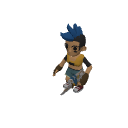
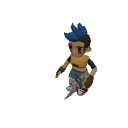
Spielordner-Modelle fuer die KI (Katalog mit Massen, Aktion modell, Gemini-Kontext), Fix Skelett-Modelle (Wolf unsichtbar/winzig im Spiel), Vorschaubilder neu
Claude-Session: https://claude.ai/code/session_019NcqBbyonHsMqUoTPw1sXs

Changed region(s): [[0.4062, 0.1562, 0.7812, 0.7812]]

diff --git a/editor/kern/kiImport.js b/editor/kern/kiImport.js
@@ -10,6 +10,7 @@ import { ZONEN_EINSTELLUNGEN, pruefeZonenEinstellungen } from '../../server/spie
 import { neueLootZone, pruefeLootZone } from '../../server/spiel/karten/lootZonen.js';
 import { einfuegeOps } from './auswahl.js';
 import { eingebautePrefabs } from './prefabs.js';
+import { spielordnerTyp } from './spielordner.js';
 
 /**
  * Import von KI-Änderungen (Phase 8). Ablauf:
@@ -47,6 +48,7 @@ const SYNONYME = {
   name: 'name', benenne: 'name', umbenennen: 'name',
   prefab: 'prefab', vorlage: 'prefab',
   bodenton: 'bodenton', bodenfarbe: 'bodenton',
+  modell: 'modell', model: 'modell', spielordner: 'modell',
 };
 /** Leerer Bereich: jede Aktion mit Ort ist darin ungültig */
 const KEIN_BEREICH = Object.freeze({ x0: 0, y0: 0, x1: -1, y1: -1 });
@@ -221,7 +223,7 @@ export function pruefeAenderungen(karte, { aktionen, meta = {}, warnungen = [] }
     };
     if (!a || typeof a !== 'object' || Array.isArray(a)) return ungueltig('keine Aktion (Objekt erwartet)');
     const art = SYNONYME[String(a.aktion ?? (a.typ ? 'setze' : '')).toLowerCase()];
-    if (!art) return ungueltig(`unbekannte Aktion „${a.aktion}“ (erlaubt: setze, entferne, aendere, kachel, linie, marker, bauwerk, raum, hoehe, typtextur, bemale, bodenton, wert, lootzone, name, prefab)`);
+    if (!art) return ungueltig(`unbekannte Aktion „${a.aktion}“ (erlaubt: setze, modell, entferne, aendere, kachel, linie, marker, bauwerk, raum, hoehe, typtextur, bemale, bodenton, wert, lootzone, name, prefab)`);
 
     if (art === 'setze') {
       if (typeof a.typ !== 'string') return ungueltig('Feld "typ" fehlt');
@@ -241,6 +243,25 @@ export function pruefeAenderungen(karte, { aktionen, meta = {}, warnungen = [] }
       if (!pr.ok) return ungueltig(`${o.typ} bei ${o.x}|${o.y}: ${pr.grund}`, Math.floor(o.x), Math.floor(o.y));
       const id = sim.naechsteId;
       return fertig('neu', `＋ ${objektInfo(o.typ, karte).name} (${o.typ}) bei ${o.x}|${o.y}${fremd.length ? ` – ignoriert: ${fremd.join(', ')}` : ''}`, [{ s: 'objekte', k: id, neu: o }], Math.floor(o.x), Math.floor(o.y), { rechteck: o });
+    }
+
+    if (art === 'modell') {
+      // Spielordner-Modell (kern/spielordner.js): legt bei Bedarf den Typ `sf_<name>_<dm>` mit `glbDatei` an und setzt das Objekt
+      const name = a.modell ?? a.datei ?? a.name;
+      if (typeof name !== 'string') return ungueltig('Feld "modell" (Dateiname ohne .glb) fehlt');
+      if (!zahl(a.x) || !zahl(a.y)) return ungueltig(`x/y fehlen für Modell ${name}`);
+      const sf = spielordnerTyp(name, zahl(a.hoehe) ? a.hoehe : null);
+      if (!sf) return ungueltig(`unbekanntes Modell „${name}“ (Liste: spielordnerModelle im Kontext)`, Math.floor(a.x), Math.floor(a.y));
+      const o = { typ: sf.typId, x: r3(a.x), y: r3(a.y), b: sf.b, h: sf.h, blockiert: true };
+      // Größe nur über "hoehe" (gleichmäßige Skalierung): b/h/typ aus der Aktion zählen nicht
+      const { aktion, modell, datei, name: _n, hoehe: _h, b: _b, h: _hh, typ: _t, ...rest } = a;
+      const fremd = uebernimmFelder(o, rest);
+      if (!objektDrin(o)) return ungueltig(`${name} bei ${o.x}|${o.y} liegt außerhalb des Bereichs (${bereichText(b)})`, Math.floor(o.x), Math.floor(o.y));
+      const pr = pruefeObjekt(sim, o);
+      if (!pr.ok) return ungueltig(`${name} bei ${o.x}|${o.y}: ${pr.grund}`, Math.floor(o.x), Math.floor(o.y));
+      const ops = sim.s('typen').has(sf.typId) ? [] : [{ s: 'typen', k: sf.typId, neu: sf.typ }];
+      ops.push({ s: 'objekte', k: sim.naechsteId, neu: o });
+      return fertig('neu', `＋ Modell ${sf.typ.name} (${sf.hoehe} m hoch, ${sf.b}×${sf.h}) bei ${o.x}|${o.y}${fremd.length ? ` – ignoriert: ${fremd.join(', ')}` : ''}`, ops, Math.floor(o.x), Math.floor(o.y), { rechteck: o });
     }
 
     if (art === 'entferne') {

diff --git a/tests/spielordner.test.js b/tests/spielordner.test.js
@@ -1,0 +1,64 @@
+/**
+ * Spielordner-Modelle für die KI (editor/kern/spielordner.js): Katalog, KI-Aktion `modell`, Gemini-Kontext, Spiel-Lader.
+ */
+import { test, before } from 'node:test';
+import assert from 'node:assert/strict';
+import fs from 'node:fs';
+import { KARTEN, verarbeiteKarte } from '../server/spiel/karten/kartenLader.js';
+import { ausDefinition, nachDefinition } from '../editor/kern/format.js';
+import { leseKiAntwort, pruefeAenderungen } from '../editor/kern/kiImport.js';
+import { baueKontext } from '../editor/kern/gemini.js';
+import { setzeSpielordner, spielordnerTyp, spielordnerKontext, spielordnerGroesse } from '../editor/kern/spielordner.js';
+
+const index = JSON.parse(fs.readFileSync(new URL('../client/assets/eigene/index.json', import.meta.url), 'utf8'));
+const laden = () => ausDefinition(KARTEN.stadtrand.definition ?? KARTEN.stadtrand).karte;
+before(() => setzeSpielordner(index));
+
+test('index.json: alle Modelle haben Maße, Vorschaubild und gültigen Dateinamen', () => {
+  assert.ok(index.length >= 400);
+  for (const e of index) {
+    assert.ok(e.masse?.b > 0 && e.masse.h > 0 && e.masse.hoehe > 0, `Maße fehlen: ${e.datei}`);
+    assert.match(e.datei, /^[a-z0-9_-]+\.glb$/, e.datei);
+    assert.ok(fs.existsSync(new URL(`../client/assets/eigene/vorschau/${e.datei.replace(/\.glb$/, '.png')}`, import.meta.url)), `Vorschau fehlt: ${e.datei}`);
+  }
+  assert.equal(spielordnerGroesse(), index.length);
+});
+
+test('spielordnerTyp: Zielhöhe skaliert gleichmäßig, Typ-ID mit Höhe', () => {
+  const natuerlich = spielordnerTyp('wolf');
+  const klein = spielordnerTyp('wolf', 0.9);
+  assert.equal(klein.typId, 'sf_wolf_9');
+  assert.equal(klein.typ.glbDatei, 'assets/eigene/wolf.glb');
+  assert.ok(klein.b < natuerlich.b && klein.h < natuerlich.h);
+  assert.ok(Math.abs(klein.h / klein.b - natuerlich.h / natuerlich.b) < 0.05, 'Proportionen bleiben');
+  assert.equal(spielordnerTyp('gibts-nicht'), null);
+});
+
+test('KI-Aktion modell: legt Typ + Objekt an, Spiel-Lader nimmt es an; unbekannt/Kollision = ungültig', () => {
+  const karte = laden();
+  const bereich = { x0: 20, x1: 40, y0: 20, y1: 40 };
+  const antwort = leseKiAntwort(JSON.stringify([
+    { aktion: 'modell', modell: 'wolf', x: 25, y: 25, hoehe: 0.9, drehung: 90 },
+    { aktion: 'modell', modell: 'wolf.glb', x: 30, y: 25, hoehe: 0.9 },
+    { aktion: 'modell', modell: 'gibts-nicht', x: 25, y: 30 },
+  ]));
+  const erg = pruefeAenderungen(karte, antwort, { bereich });
+  assert.equal(erg.eintraege.filter((e) => e.art === 'neu').length, 2, JSON.stringify(erg.eintraege.map((e) => e.text)));
+  assert.equal(erg.eintraege.filter((e) => e.art === 'ungueltig').length, 1);
+  const typOps = erg.ops.filter((o) => o.s === 'typen');
+  assert.equal(typOps.length, 1, 'gleicher Typ nur einmal');
+  karte.anwenden(erg.ops);
+  assert.ok(karte.s('typen').has('sf_wolf_9'));
+  const objekte = [...karte.s('objekte').values()].filter((o) => o.typ === 'sf_wolf_9');
+  assert.equal(objekte.length, 2);
+  assert.equal(objekte[0].drehung, 90);
+  const geladen = verarbeiteKarte(nachDefinition(karte));
+  assert.equal(geladen.daten.typen.sf_wolf_9.glbDatei, 'assets/eigene/wolf.glb');
+});
+
+test('Gemini-Kontext nennt die Spielordner-Modelle mit Maßen', () => {
+  const k = baueKontext(laden(), { rechteck: { x: 5, y: 5, b: 10, h: 8 } });
+  assert.match(k.text, /spielordnerModelle/);
+  assert.match(k.text, /wolf 1\.1x5\.3x2\.7/);
+  assert.ok(spielordnerKontext().length < 20000, 'bleibt kompakt');
+});

diff --git a/editor/kern/spielordner.js b/editor/kern/spielordner.js
@@ -1,0 +1,64 @@
+/**
+ * Spielordner-Katalog (client/assets/eigene/index.json): die mitgelieferten .glb-Modelle mit natürlichen Maßen.
+ * Umgebungsfrei – die UI lädt den Katalog einmal (`ladeSpielordner`) und trägt ihn per `setzeSpielordner` ein.
+ * Genutzt von der KI-Aktion `modell` (kern/kiImport.js) und vom Gemini-Kontext (kern/gemini.js).
+ *
+ * Ein Modell wird als Objekttyp mit `glbDatei` (Pfad unter client/) angelegt – ohne Bibliothek/Upload. Die Zielgröße
+ * (`hoehe` in Metern = Kacheln) skaliert das Modell gleichmäßig: b/h des Fußabdrucks folgen den natürlichen Proportionen.
+ * Typ-ID: `sf_<name>_<hoehe in dm>` (z. B. `sf_wolf_9`), je Höhe ein eigener Typ.
+ */
+export const SPIELORDNER_PFAD = 'assets/eigene';
+export const HOEHE_MIN = 0.05;
+export const HOEHE_MAX = 20;
+
+let katalog = new Map(); // stem → { stem, name, b, t, hoehe }
+
+/** Dateiname ohne .glb, klein */
+export const stemVon = (s) => String(s ?? '').trim().toLowerCase().replace(/^.*\//, '').replace(/\.glb$/, '');
+
+/** index.json-Liste [{ datei, name, masse:{b,h,hoehe} }] eintragen (Einträge ohne Maße werden übersprungen) */
+export function setzeSpielordner(liste) {
+  katalog = new Map();
+  for (const e of Array.isArray(liste) ? liste : []) {
+    const m = e?.masse;
+    if (!m || !(m.b > 0) || !(m.h > 0) || !(m.hoehe > 0) || typeof e.datei !== 'string') continue;
+    const stem = stemVon(e.datei);
+    if (/^[a-z0-9_-]{1,100}$/.test(stem)) katalog.set(stem, { stem, name: e.name ?? stem, b: m.b, t: m.h, hoehe: m.hoehe });
+  }
+}
+
+export const spielordnerModell = (name) => katalog.get(stemVon(name)) ?? null;
+export const spielordnerGroesse = () => katalog.size;
+
+/** Lädt index.json (basis = URL-Ordner von client/assets/eigene/) und trägt ihn ein. @returns Anzahl Modelle mit Maßen */
+export async function ladeSpielordner(basis, holen = fetch) {
+  const antwort = await holen(new URL('index.json', basis));
+  if (!antwort.ok) throw new Error(`index.json nicht gefunden (${antwort.status})`);
+  setzeSpielordner(await antwort.json());
+  return katalog.size;
+}
+
+const r1 = (v) => Math.round(v * 10) / 10;
+const r3 = (v) => Math.round(v * 1000) / 1000;
+
+/**
+ * Objekttyp für ein Modell in Zielhöhe. @returns { typId, typ, b, h, hoehe } | null (unbekanntes Modell)
+ * b/h = Fußabdruck in Kacheln (natürliche Proportionen × Faktor), mindestens 0,1.
+ */
+export function spielordnerTyp(name, hoehe = null) {
+  const m = spielordnerModell(name);
+  if (!m) return null;
+  const ziel = Math.min(HOEHE_MAX, Math.max(HOEHE_MIN, Number.isFinite(hoehe) && hoehe > 0 ? hoehe : m.hoehe));
+  const f = ziel / m.hoehe;
+  const b = Math.max(0.1, r3(m.b * f));
+  const h = Math.max(0.1, r3(m.t * f));
+  const typId = `sf_${m.stem.replace(/[^a-z0-9]+/g, '_').slice(0, 28)}_${Math.round(ziel * 10)}`;
+  const typ = { name: m.name, kategorie: 'Spielordner', b, h, hoehe3d: r3(ziel), blockiert: true, farbe: '#c080ff', glbDatei: `${SPIELORDNER_PFAD}/${m.stem}.glb` };
+  return { typId, typ, b, h, hoehe: r3(ziel) };
+}
+
+/** Kompakte Liste für KIs: „wolf 1.1x5.3x2.7“ = Breite × Tiefe × Höhe in Metern im Originalmaß (Aktion `modell` skaliert) */
+export function spielordnerKontext() {
+  if (!katalog.size) return '';
+  return [...katalog.values()].map((m) => `${m.stem} ${r1(m.b)}x${r1(m.t)}x${r1(m.hoehe)}`).join(', ');
+}

diff --git a/editor/ui/modellImport.js b/editor/ui/modellImport.js
@@ -1,5 +1,5 @@
 import * as THREE from 'three';
-import { GLTFLoader, OBJLoader, FBXLoader, GLTFExporter } from '../../client/vendor/three/addons.js';
+import { GLTFLoader, OBJLoader, FBXLoader, GLTFExporter, SkeletonUtils } from '../../client/vendor/three/addons.js';
 import { istGlb, glbInfo, gltfZuGlb, modellFormat, masseAusGroesse, MODELL_MAX_MB } from '../kern/bibliothek.js';
 
 /**
@@ -12,6 +12,19 @@ import { istGlb, glbInfo, gltfZuGlb, modellFormat, masseAusGroesse, MODELL_MAX_M
  */
 export const DATEI_ANNAHME = '.glb,.gltf,.obj,.fbx,model/gltf-binary,model/gltf+json';
 const VORSCHAU_PX = 96;
+
+/** Größe eines geladenen Modells (Ruhepose). Skelett-Modelle: Knochen-Matrizen erst berechnen, sonst falsche (100× kleine) Maße. */
+export function messeModell(szene) {
+  szene.updateMatrixWorld(true);
+  let skelett = false;
+  szene.traverse((t) => {
+    if (!t.isSkinnedMesh) return;
+    skelett = true;
+    t.boundingBox = null;
+    t.skeleton.update();
+  });
+  return new THREE.Box3().setFromObject(szene, skelett).getSize(new THREE.Vector3());
+}
 
 export async function leseModellDatei(datei) {
   const format = modellFormat(datei.name);
@@ -47,7 +60,7 @@ export async function leseModellDatei(datei) {
   } catch (e) {
     throw new Error(`Modell lässt sich nicht laden: ${e.message ?? e}`);
   }
-  const groesse = new THREE.Box3().setFromObject(szene).getSize(new THREE.Vector3());
+  const groesse = messeModell(szene);
   if (!(groesse.x > 0 || groesse.y > 0 || groesse.z > 0)) throw new Error('Modell hat keine sichtbare Größe');
   const masse = masseAusGroesse(groesse);
   if (Math.max(groesse.x, groesse.y, groesse.z) > 60) warnungen.push(`Sehr groß (${groesse.x.toFixed(0)} × ${groesse.z.toFixed(0)} m) – vielleicht in cm exportiert? Maße im Dialog anpassen`);
@@ -68,11 +81,15 @@ export function vorschauBild(szene, px = VORSCHAU_PX) {
     const sonne = new THREE.DirectionalLight(0xffffff, 1.6);
     sonne.position.set(3, 5, 4);
     welt.add(sonne);
-    const modell = szene.clone(true);
+    let skelett = false;
+    szene.traverse((t) => (skelett ||= !!t.isSkinnedMesh));
+    const modell = skelett ? SkeletonUtils.clone(szene) : szene.clone(true);
     welt.add(modell);
-    const box = new THREE.Box3().setFromObject(modell);
+    const groesse = messeModell(modell);
+    const box = new THREE.Box3().setFromObject(modell, skelett);
     const mitte = box.getCenter(new THREE.Vector3());
-    const radius = box.getSize(new THREE.Vector3()).length() / 2 || 1;
+    const radius = groesse.length() / 2 || 1;
+    modell.traverse((t) => t.isSkinnedMesh && (t.frustumCulled = false));
     const kamera = new THREE.PerspectiveCamera(35, 1, radius / 100, radius * 100);
     const abstand = radius / Math.sin((35 / 2) * (Math.PI / 180)) * 1.05;
     kamera.position.copy(mitte).add(new THREE.Vector3(0.75, 0.6, 1).normalize().multiplyScalar(abstand));

diff --git a/editor/kern/gemini.js b/editor/kern/gemini.js
@@ -2,6 +2,7 @@ import { ausschnitt, ausschnittText, bereichText } from './ausschnitt.js';
 import { katalog, objektInfo } from './katalog.js';
 import { leseKiAntwort } from './kiImport.js';
 import { kopie } from './karte.js';
+import { spielordnerKontext } from './spielordner.js';
 import { ZONEN_EINSTELLUNGEN } from '../../server/spiel/karten/zonenEinstellungen.js';
 import { LOOT_TABELLEN } from '../../server/spiel/konfiguration/lootTabellen.js';
 
@@ -92,7 +93,7 @@ export const SYSTEM_TEXT = [
   'Du hilfst beim Gestalten von Zonen: Layout, Dekoration, Spawns/Loot-Verteilung, Farben und Texturen. Antworte auf Deutsch, kurz und konkret, gern mit einem Augenzwinkern.',
   'Du siehst nur den mitgelieferten Kontext (Zonen-Überblick, markierter Bereich, ausgewählte Objekte). Rate nicht, was du nicht siehst – frag nach oder bitte darum, einen Bereich zu markieren.',
   'Wenn der Nutzer etwas geändert haben will, erkläre kurz, was du tust, und hänge GENAU EINEN ```json-Block mit der Aktionsliste an (erste Aktion: die "bereich"-Aktion aus dem Kontext, falls dort eine steht – sonst keine erfinden).',
-  'Nutze nur Objekttypen aus "objektTypen", nur Kachelzeichen aus der Legende, nur Koordinaten INNERHALB des Bereichs. Ohne Bereich im Kontext nur Aktionen ohne Ort (wert, raum, name, typtextur, bodenton – Format siehe Kontext), sonst Tipps.',
+  'Nutze nur Objekttypen aus "objektTypen" (oder 3D-Modelle aus "spielordnerModelle" per Aktion "modell" – wähle eine sinnvolle Zielhöhe "hoehe", die Originalmaße sind oft viel zu groß/klein), nur Kachelzeichen aus der Legende, nur Koordinaten INNERHALB des Bereichs. Ohne Bereich im Kontext nur Aktionen ohne Ort (wert, raum, name, typtextur, bodenton – Format siehe Kontext), sonst Tipps.',
   'Bei reinen Fragen oder Ideen: nur Text, kein JSON. Die Änderungen werden vom Nutzer in einer Vorschau geprüft – du musst nichts "bestätigen".',
 ].join('\n');
 
@@ -142,6 +143,8 @@ export function zonenStatistik(karte, { prefabs = [] } = {}) {
     `Typ-Texturen gesetzt: ${[...karte.s('texturen')].map(([t, v]) => `${t}=${JSON.stringify(v)}`).join(', ') || 'keine'}.`,
     `objektTypen: ${typListe(karte)}`,
   ];
+  const modelle = spielordnerKontext();
+  if (modelle) zeilen.push(`spielordnerModelle (Aktion "modell", Originalmaß Breite x Tiefe x Höhe in m – du legst die Zielhöhe "hoehe" fest, 1 Kachel = 1 m, Mensch ≈ 1.8): ${modelle}`);
   if (prefabs.length) zeilen.push(`prefabs: ${prefabs.map((p) => `${p.name} ${p.vorlage.b}×${p.vorlage.h}`).join(', ')}`);
   return zeilen.join('\n');
 }

diff --git a/client/darstellung/eigeneModelle.js b/client/darstellung/eigeneModelle.js
@@ -61,7 +61,17 @@ export function eigenesModellInhalt(szene, { b, h, hoehe, einheit = 1, farbe = n
     t.material = Array.isArray(t.material) ? t.material.map(kopie) : kopie(t.material);
     if (id !== null) t.userData = { s: 'objekte', k: id };
   });
-  const box = new THREE.Box3().setFromObject(modell);
+  // Skelett-Modelle: erst alle Knochen-Matrizen berechnen und die (gecachte) Skinning-Box verwerfen, sonst wird in Ruhepose
+  // mit veralteten Knochen gemessen (Modell erscheint 100× zu klein/unsichtbar). Skinning-Meshes nie wegschneiden (Box stimmt nicht).
+  modell.updateMatrixWorld(true);
+  modell.traverse((t) => {
+    if (!t.isSkinnedMesh) return;
+    t.boundingBox = null;
+    t.boundingSphere = null;
+    t.skeleton.update();
+    t.frustumCulled = false;
+  });
+  const box = new THREE.Box3().setFromObject(modell, skelett);
   const groesse = box.getSize(new THREE.Vector3());
   const mitte = box.getCenter(new THREE.Vector3());
   const s = Math.min((b * 0.96 * einheit) / (groesse.x || 1), (h * 0.96 * einheit) / (groesse.z || 1), (hoehe * einheit) / (groesse.y || 1));

diff --git a/editor/kern/ausschnitt.js b/editor/kern/ausschnitt.js
@@ -20,6 +20,7 @@ export const AUSSCHNITT_VERSION = 1;
 export const AKTIONEN_ANLEITUNG = [
   'Antworte mit einer JSON-Liste von Aktionen (nur Koordinaten INNERHALB des Bereichs sind erlaubt). Beispiele:',
   '{"aktion":"setze","typ":"baum","x":23,"y":14}  – Objekt setzen (typ aus objektTypen; Größe/Kollision kommen aus dem Katalog, b/h/drehung/blockiert optional)',
+  '{"aktion":"modell","modell":"wolf","x":23,"y":14,"hoehe":0.9,"drehung":90}  – 3D-Modell aus dem Spielordner (Liste spielordnerModelle im Kontext; "hoehe" = Zielhöhe in m, Fußabdruck skaliert mit; Mensch ≈ 1.8 m, Hund ≈ 0.6, Baum 4–8; "blockiert":false für Deko)',
   '{"aktion":"entferne","id":17}  oder  {"aktion":"entferne","typ":"stein","x":30,"y":12}  – Objekt entfernen',
   '{"aktion":"aendere","id":17,"x":24,"y":15,"drehung":90}  – Objekt verschieben/drehen/Eigenschaften ändern',
   '{"aktion":"kachel","x":20,"y":10,"zeichen":"="}  oder mit "b"/"h" für ein Rechteck – Boden setzen (Zeichen siehe legende)',

diff --git a/editor/ui/geminiUi.js b/editor/ui/geminiUi.js
@@ -1,3 +1,4 @@
+import { ladeSpielordner } from '../kern/spielordner.js';
 import { frageGemini, ohneJsonBloecke, markierungTeile, aussenRechteck, STANDARD_MODELL, BEKANNTE_MODELLE } from '../kern/gemini.js';
 import { kiAnfrage, kiErgebnis } from '../kern/kiPipeline.js';
 import { bereichText } from '../kern/ausschnitt.js';
@@ -24,6 +25,8 @@ const VORSCHLAEGE = [
 ];
 
 export function geminiUi({ zustand, panel, aktionen, pruefeText }) {
+  // Spielordner-Katalog (Modelle + Maße) für Kontext und KI-Aktion „modell“; ohne Katalog (kein Spielserver) läuft alles wie bisher
+  ladeSpielordner(new URL('../client/assets/eigene/', location.href)).catch(() => {});
   const auswahlBereich = () => aktionen.auswahlBereich();
   const speicher = ladeEinstellungen();
   const verlauf = []; // { rolle, text }

diff --git a/project_manifest.md b/project_manifest.md
@@ -893,3 +893,4 @@ Weiter: `statischerServer.js` liefert `editor/` aus,
 | 0.17.0-dev | 2026-10-22 | **Runde 18, Phase 1 (Werte & UI):** Zoom enger (0,32–1,12), Gangarten Gehen/Joggen/Rennen + Zombies 120 px/s, Taschenlampe kürzer/breiter mit weichem Kegel (Shader), Laternen kleiner, Mengen-Zahlen weiß mit Umrandung, „Ziel erfasst“ und Tasten-Hilfe unten rechts entfernt, Minikarte ohne Zombies/Tiere, Nacht etwas heller + Figur leuchtet stärker, **Fix: nachts bei Regen/Nebel verschluckte heller Nebel alles** (Regengrau nachts dunkel, Nebel erst hinter der Figur, NaN-Schutz Kamera), Wand-Durchsicht nur noch nahe Südwände je Kachel (`verdecktFigur`), Chat-Sprechblasen über dem Kopf. Fortschritt: `FORTSCHRITT.md`. |
 | 0.17.0-dev | 2026-10-22 | **Runde 18, Phase 2/3/6/7:** Neue Figuren-Clips (gehen, hacke, spitzhacke, abbauen, nahkampf beidhändig, sitzen; Gehtempo je Figur), Angeln nur mit Angel in der Hand + doppelte Wartezeit, Auto bremst an Laternen, neue Sounds (Vögel, Donner, Hunger, Durst, Keuchen, Schaden m/w, Automatikgewehr), weicher Rasenrand. Editor: Boden-Pinsel, Zonen ohne Überlappung/verschiebbar/bis 10000², 3D-Mappen, Knochen in der Werkstatt, Strg+C, Messen-Fix, Testlauf ohne fremde Spawn-Warnung; KI ohne Größenlimit, Markieren aus dem Chat auch außerhalb, Loot-Balance-Vorschläge werden angenommen. Neu: `editor/kern/knochen.js`, `editor/kern/weltLayout.js`, `editor/ui/werkstattKnochen.js`, `tests/editorRunde18.test.js`. |
 | 0.17.0-dev | 2026-10-22 | **Runde 18, Phase 4 (Performance & nahtlose Zonen):** Nahtloser Übergang an der ganzen gemeinsamen Kante (Ankunft an der nächsten freien Stelle); Nachbarzone läuft in Grenznähe mit, ihre Zombies/Spieler/Autos/Tiere sind von drüben sichtbar (`ZUSTAND.fremde`); Zonenwechsel ohne Ruckler (Minikarte in Portionen + Cache je Zone, Figuren werden übernommen statt neu gebaut: 2×~1 s → 58 ms); Render-Culling in 64er-Blöcken + Sichtweite (Neu: `client/darstellung/bloecke.js`, `tests/bloecke.test.js`). |
+| 0.17.0-dev | 2026-10-22 | **Spielordner-Modelle im Editor + für die KI:** Spielordner-Dialog mit Vorschaubildern (`client/assets/eigene/vorschau/`, `npm run eigene:vorschau`), Maße je Modell in `index.json`; neue KI-Aktion `modell` + Katalog im Gemini-Kontext (`editor/kern/spielordner.js`, Typ mit `glbDatei`); Fix: Skelett-Modelle (Wolf …) waren im Spiel unsichtbar/winzig (Messung vor Knochen-Update, `eigeneModelle.js`/`modellImport.js`); Zonen-Layout: alle Nachbarzonen sichtbar + Ansicht nach „Neue Zone“ zeigt alte und neue. Test `tests/spielordner.test.js`. |

diff --git a/KI_INDEX.md b/KI_INDEX.md
@@ -268,3 +268,5 @@ Zonen-Grundlage steht (2 Zonen, Waldweg groß mit See). Nächstes sinnvoll: Basi
 - Editor: Reiter „📦 Modelle“ → Knopf „📁 Spielordner“ (`editor/ui/modelleUi.js spielordner()`): Suchliste, Klick = fetch → `leseModellDatei` → `bibliothek.fuegeHinzu` (Ordner „Spielordner“, `quelle`=URL). Bibliothek bleibt IndexedDB – nicht automatisch alle geladen. Credits für diese Modelle fehlen noch (Credits.txt enthält sie nicht).
 - Vorschaubilder: `client/assets/eigene/vorschau/<name>.png` (128 px, ← `npm run eigene:vorschau`, `werkzeuge/assets/eigene_vorschau.mjs`, headless Chromium + `vorschauBild`; nur fehlende, `-- --alle` neu). Spielordner-Dialog zeigt sie als Kachel-Raster. Nach neuem Modell: `eigene:index` + `eigene:vorschau`.
 - Zonen-Layout: `zeichner.nachbarn` (ui/zonenUi.js) = ALLE anderen Zonen als blasses Kachelbild (vorher nur Kante-an-Kante). `zeichner.einpassenMit(ids)`: nach „Neue Zone“ passt die Ansicht neue + vorherige Zone ein (statt nur die neue).
+- **Spielordner für die KI (Runde 18+):** `index.json` trägt je Modell `masse {b,h,hoehe}` (m, Ruhepose; ← `eigene:vorschau`, behält `eigene:index`). `editor/kern/spielordner.js` (umgebungsfrei): `setzeSpielordner/ladeSpielordner`, `spielordnerTyp(name, hoehe)` → Typ `sf_<name>_<dm>` mit `glbDatei` (kein Bibliotheks-Upload, Spiel-Lader nimmt `glbDatei` direkt), `spielordnerKontext()`. KI-Aktion `modell` {modell, x, y, hoehe?, drehung?, blockiert?} in `kiImport.js` (Zielhöhe skaliert gleichmäßig, b/h aus Proportionen; Typ wird mit angelegt). Gemini-Kontext (`gemini.js zonenStatistik`) listet `spielordnerModelle` (~10 KB); `geminiUi` lädt den Katalog beim Start. Bilder sieht die KI nicht – Namen + Maße reichen. Test `tests/spielordner.test.js`.
+- ⚠ **Skelett-Modelle (Wolf, Fuchs, Alpaka …):** Messen erst nach `updateMatrixWorld(true)` + `boundingBox=null` + `skeleton.update()` und mit `Box3.setFromObject(…, true)`; sonst ~100× zu klein/unsichtbar (`client/darstellung/eigeneModelle.js eigenesModellInhalt`, `editor/ui/modellImport.js messeModell`). Skinned Meshes: `frustumCulled=false`. Originalmaße der Modelle sind beliebig (Wolf 5 m lang) → immer Zielhöhe setzen (1 Kachel = 1 m, Mensch ≈ 1,8).
